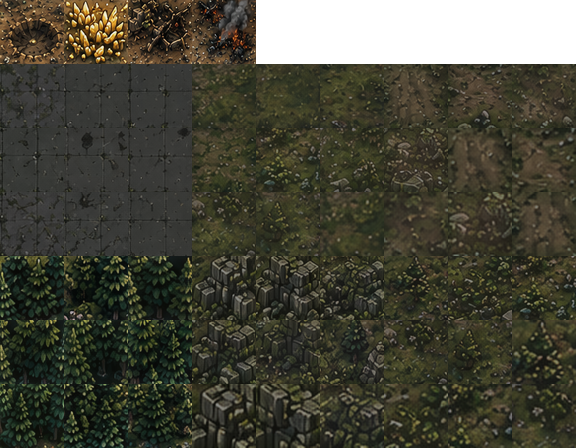
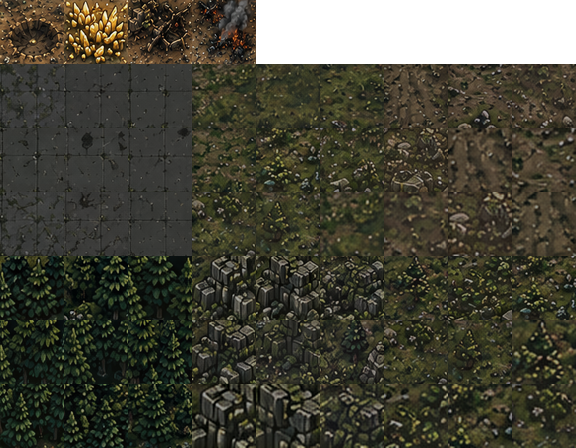
Grafika: zdjęcie wielkoskalowej plamy z kafli gruntu
Kratki wciąż się odcinały, choć tony wariantów były już zgrane — zmierzone
odchylenie jasności między dziewięcioma kaflami trawy to mniej niż 2 poziomy.
Przyczyna była inna: każdy kafel ma w środku jaśniejszą i ciemniejszą POŁOWĘ,
a taka plama powtórzona co 52 px rysuje szachownicę niezależnie od tego, jak
dobrze zgadzają się brzegi.

Kafel gruntu przechodzi więc filtr górnoprzepustowy: odejmowana jest różnica
względem mocno rozmytej kopii, czyli samo niskie pasmo. Drobna faktura —
kamyki, kępki, ślady kół — zostaje nietknięta. Tłumienie kontrastu, którym
próbowałem tego wcześniej, gasiło detal razem z plamą, więc wraca do łagodnych
wartości i robi tylko to, do czego się nadaje.

Środek pola obsługuje teraz JEDEN zestaw gruntu. Sąsiedztwo dwóch różnych
gruntów samo w sobie rysuje granicę kratki, choćby oba były bez szwów — a głazy
są już obiektem warstwy ozdób, więc kamień jako grunt jest tam zbędny. Został
na ramie pola, przeplatany drzewostanem, gdzie różnica tonu czyta się jako
urozmaicenie terenu, nie jako krata.

Sprawdzone botem na misji 1: zwycięstwo, mechanika nietknięta.

Claude-Session: https://claude.ai/code/session_019zrYGM3CL8Czw9VD7FFQBK

diff --git a/src/render.js b/src/render.js
@@ -170,12 +170,16 @@ function groundSet(gx, gy, T){
   /* ŚRODEK POLA MA BYĆ GŁADKI. Zarośla, skały i las to kafle-scenki: ułożone
      przez całe pobocze robią papkę, w której nie widać ani jednostek, ani
      terenu. Trzymamy je na obrzeżu, a to, co ma przyciągać oko bliżej walki,
-     kładzie warstwa ozdób — pojedynczymi obiektami na czystej trawie.        */
+     kładzie warstwa ozdób — pojedynczymi obiektami na czystej trawie. Głazy
+     przestały być gruntem i są dziś obiektem (decor 'glaz'), więc środek pola
+     obsługuje JEDEN zestaw: sąsiedztwo dwóch różnych gruntów samo w sobie
+     rysuje granicę kratki, choćby oba były bez szwów.                        */
   const v = outerT(y) + n*0.80;
-  if (v < 0.74) return 'trawa';
-  if (vnoise(gx/5.0 + 91, gy/5.0 + 57) > 0.84) return 'kamien';
-  if (v < 0.92) return 'krzaki';
-  return 'las';                                             // ściana drzew na samej ramie
+  if (v < 0.84) return 'trawa';                             // środek pola: JEDEN grunt
+  if (v < 0.96) return 'krzaki';                            // pas przejściowy pod las
+  // Rama pola: skalne obrzeże przeplatane drzewostanem. Różnica tonu czyta się
+  // tu jako urozmaicenie terenu, a nie jako krata — bo jest na skraju, nie pod walką.
+  return vnoise(gx/5.0 + 91, gy/5.0 + 57) > 0.58 ? 'kamien' : 'las';
 }
 
 function buildGround(){

diff --git a/tools/kafle.py b/tools/kafle.py
@@ -190,7 +190,17 @@ def sample(sheet, picks, n, extra=0):
 # scenka z jasnymi i ciemnymi plamami; położony obok sąsiada każda taka plama
 # rysuje granicę kwadratu. Podłoże ma być POWIERZCHNIĄ — szczegół niesie warstwa
 # ozdób, która leży na wierzchu i nie układa się w siatkę.
-FLATTEN = {'trawa':0.58, 'ziemia':0.62, 'krzaki':0.66, 'kamien':0.72, 'las':0.78, 'skala':0.85}
+FLATTEN = {'trawa':0.86, 'ziemia':0.88, 'krzaki':0.88, 'kamien':0.92, 'las':0.94, 'skala':0.92}
+
+# Ile WIELKOSKALOWEJ zmienności zostawić w kaflu (0 = sam drobny detal).
+# To jest właściwy lek na „widać kwadraty". Kafle mają wyrównane średnie — mierzone
+# odchylenie tonu między wariantami trawy to mniej niż 2 poziomy — a mimo to każda
+# kratka się odcinała, bo w środku ma jaśniejszą i ciemniejszą POŁOWĘ. Powtórzona
+# co 52 px taka plama rysuje szachownicę niezależnie od tego, jak zgrane są brzegi.
+# Ściągamy więc samo niskie pasmo (różnicę względem mocno rozmytej kopii), a drobna
+# faktura — kamyki, kępki trawy, ślady kół — zostaje nietknięta. Tłumienie kontrastu
+# (FLATTEN) tego nie umiało: gasiło detal razem z plamą.
+DEBLOTCH = {'trawa':0.18, 'ziemia':0.22, 'krzaki':0.26, 'kamien':0.40, 'las':0.55}
 
 def grade(t, which):
     sat, gain, lift = GRADE[which]
@@ -202,6 +212,11 @@ def grade(t, which):
     if k is not None:                           # spłaszczenie kontrastu do tonu kafla
         m = a.reshape(-1,3).mean(axis=0)
         a = m + (a - m) * k
+    keep = DEBLOTCH.get(which)
+    if keep is not None:                        # zdjęcie wielkoskalowej plamy
+        img = Image.fromarray(np.clip(a, 0, 255).astype(np.uint8))
+        lo = np.asarray(img.filter(ImageFilter.GaussianBlur(13)), dtype=np.float32)
+        a = a - (lo - lo.reshape(-1,3).mean(axis=0)) * (1 - keep)
     return Image.fromarray(np.clip(a, 0, 255).astype(np.uint8))
 
 def normalize(tiles):
@@ -210,7 +225,9 @@ def normalize(tiles):
     Bez tego zestaw jest patchworkiem jaśniejszych i ciemniejszych kwadratów —
     to najbardziej rzuca się w oczy na polu, bardziej niż niedopasowane krawędzie.
     Częściowo (MIX), żeby nie spłaszczyć wszystkich wariantów do jednego koloru."""
-    MIX = 0.88
+    # Prawie do końca: dwa kafle tego samego gruntu mają się różnić UKŁADEM plam,
+    # nie jasnością. Różnica tonu czyta się jako granica kratki, układ nie.
+    MIX = 0.94
     arrs = [np.asarray(t, dtype=np.float32) for t in tiles]
     target = np.mean([a.reshape(-1,3).mean(axis=0) for a in arrs], axis=0)
     out = []
@@ -226,7 +243,7 @@ def edge_mean_of(arrs, width):
         a[:,:width].reshape(-1,3), a[:,-width:].reshape(-1,3)]).mean(axis=0)
         for a in arrs], axis=0)
 
-def blend_edges(tiles, target=None, width=15):
+def blend_edges(tiles, target=None, width=8):
     """Wyrównaj TON krawędzi kafli zestawu, nie zamalowuj ich.
 
     To jest lek na „widać kratę": kafel z generatora kończy się własnym,
@@ -249,7 +266,11 @@ def blend_edges(tiles, target=None, width=15):
     ramp = np.clip(1.0 - np.minimum(yy, xx)/width, 0, 1).astype(np.float32)[:,:,None]
     out = []
     for a in arrs:
-        gain = np.clip(target / np.maximum(edge_mean(a), 1e-3), 0.6, 1.7)
+        # Wąski zakres i wąska ramka są tu istotne: przy szerokiej korekta sięgała
+        # połowy powierzchni kafla i przesuwała ton CAŁEJ kratki — pole robiło się
+        # patchworkiem jaśniejszych i ciemniejszych kwadratów, czyli dokładnie tym,
+        # co miała usunąć. Styk ma być niewidoczny, wnętrze nietknięte.
+        gain = np.clip(target / np.maximum(edge_mean(a), 1e-3), 0.86, 1.16)
         out.append(Image.fromarray(
             np.clip(a * (1 + (gain - 1) * ramp), 0, 255).astype(np.uint8)))
     return out
@@ -377,7 +398,7 @@ def main():
                else expand([cut(src,r,c,extra=extra) for r,c in picks], VARY*VARY))
         made[name] = normalize([grade(t, name) for t in raw])
     fam = [np.asarray(t, dtype=np.float32) for n in FAMILY for t in made.get(n, [])]
-    fam_target = edge_mean_of(fam, 15) if fam else None
+    fam_target = edge_mean_of(fam, 8) if fam else None
     for name, tiles in made.items():
         tiles = blend_edges(tiles, fam_target if name in FAMILY else None)
         cx, cy = BLOCK_AT[name]
